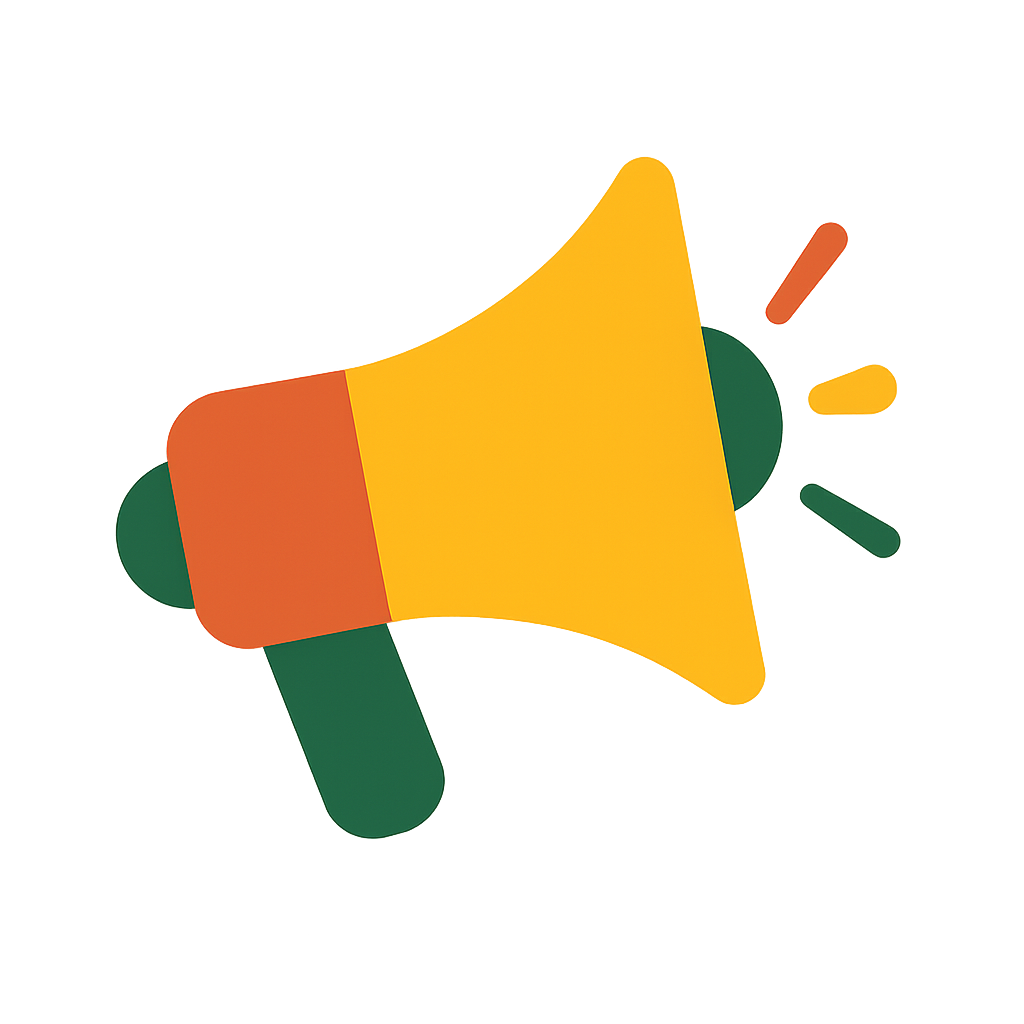
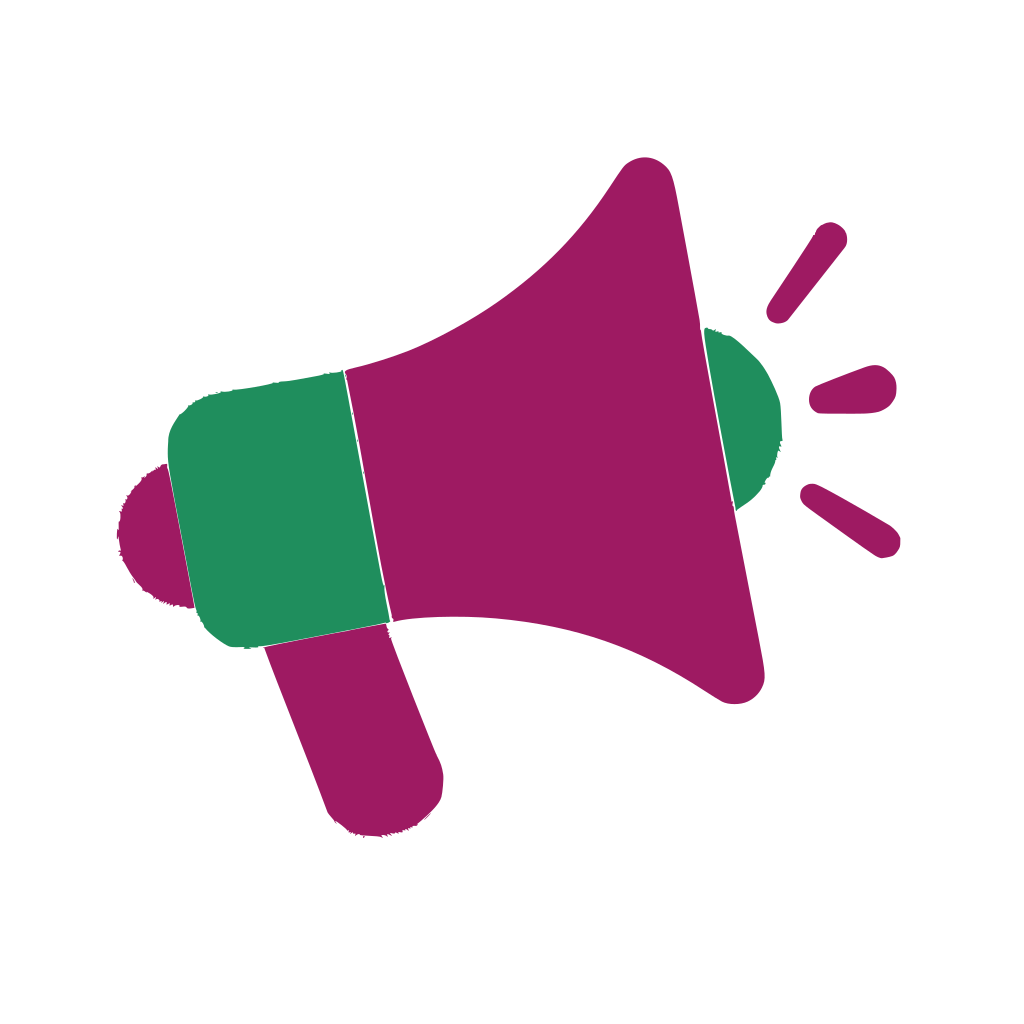
Merge pull request #59 from OSGeo-be/b2025-2-color
B2025 2 color

Pull request: B2025 2 color

Changed region(s): [[0.0938, 0.1562, 0.875, 0.8438], [0.7812, 0.4688, 0.875, 0.5625], [0.75, 0.2188, 0.8438, 0.3125]]

diff --git a/pages/index.vue b/pages/index.vue
@@ -58,16 +58,16 @@ onUnmounted(() => clearInterval(timer))
 
             <ul class="w-full grid grid-cols-1 sm:grid-cols-3 gap-4 mb-6">
                 <li class="flex flex-col items-center space-y-2">
-                    <MdiIcon icon="mdiBullhorn" size="2.5em" />
-                    <span class="text-sm font-medium text-primary-dark">{{ $t('index.about.features.keynotes') }}</span>
+                    <MdiIcon icon="mdiBullhorn" size="2.5em" class="text-main-color-2" />
+                    <span class="text-sm font-medium text-main-color-2">{{ $t('index.about.features.keynotes') }}</span>
                 </li>
                 <li class="flex flex-col items-center space-y-2">
-                    <MdiIcon icon="mdiAccountMultiple" size="2.5em" />
-                    <span class="text-sm font-medium text-primary-dark">{{ $t('index.about.features.networking') }}</span>
+                    <MdiIcon icon="mdiAccountMultiple" size="2.5em" class="text-main-color-3" />
+                    <span class="text-sm font-medium text-main-color-3">{{ $t('index.about.features.networking') }}</span>
                 </li>
                 <li class="flex flex-col items-center space-y-2">
-                    <MdiIcon icon="mdiTools" size="2.5em" />
-                    <span class="text-sm font-medium text-primary-dark">{{ $t('index.about.features.osgeoTools') }}</span>
+                    <MdiIcon icon="mdiTools" size="2.5em" class="text-main-color-4" />
+                    <span class="text-sm font-medium text-main-color-4">{{ $t('index.about.features.osgeoTools') }}</span>
                 </li>
             </ul>
 
@@ -100,7 +100,7 @@ onUnmounted(() => clearInterval(timer))
                         </p>
                         <NuxtLinkLocale
                             to="/present"
-                            class="flex justify-center border-2 border-black hover:border-primary text-black font-semibold px-4 py-2 rounded-lg hover:bg-primary hover:text-white transition text-sm"
+                            class="flex justify-center border-2 border-main-color-2 text-main-color-2 font-semibold px-4 py-2 rounded-lg hover:bg-main-color-2 hover:text-white transition text-sm"
                         >
                             {{ $t('cards.callForTopics.button') }}
                         </NuxtLinkLocale>
@@ -130,7 +130,7 @@ onUnmounted(() => clearInterval(timer))
                     <p class="text-sm text-neutral-dark mb-4">{{ $t('cards.callForSponsors.description') }}</p>
                     <NuxtLinkLocale
                         to="/become-sponsor"
-                        class="flex justify-center border-2 border-black text-black font-semibold px-4 py-2 rounded-lg hover:bg-gold hover:text-black hover:border-gold transition text-sm"
+                        class="flex justify-center border-2 border-main-color-3 text-main-color-3 font-semibold px-4 py-2 rounded-lg hover:bg-main-color-3 hover:text-white transition text-sm"
                     >
                         {{ $t('cards.callForSponsors.button') }}
                     </NuxtLinkLocale>
@@ -156,7 +156,7 @@ onUnmounted(() => clearInterval(timer))
                     </p>
                     <NuxtLinkLocale
                         to="/volunteer"
-                        class="flex justify-center border-2 border-danger text-danger font-semibold px-4 py-2 rounded-lg hover:bg-danger hover:text-white transition text-sm"
+                        class="flex justify-center border-2 border-main-color-4 text-main-color-4 font-semibold px-4 py-2 rounded-lg hover:bg-main-color-4 hover:text-white transition text-sm color4"
                     >
                         <span>{{ $t('cards.volunteers.button') }}</span>
                     </NuxtLinkLocale>

diff --git a/tailwind.config.ts b/tailwind.config.ts
@@ -21,6 +21,14 @@ module.exports = {
                 'stone': '#B4BAB1',
                 'teal-light': '#859393',
                 'teal-dark': '#5D726F',
+
+                'white': '#dbdbd9fe',
+
+                'main-color-1': '#1f8e5dff', //             '#459939',
+                'main-color-2': '#ada424ff', // '#8A8317', //'#998d39',
+                'main-color-3': '#9e1a62ff', //               '#8d3999',
+                'main-color-4': '#1b22a5ff', //                '#394599',
+
                 primary: {
                     DEFAULT: '#859393',     // teal-light
                     dark: '#5D726F',        // teal-dark